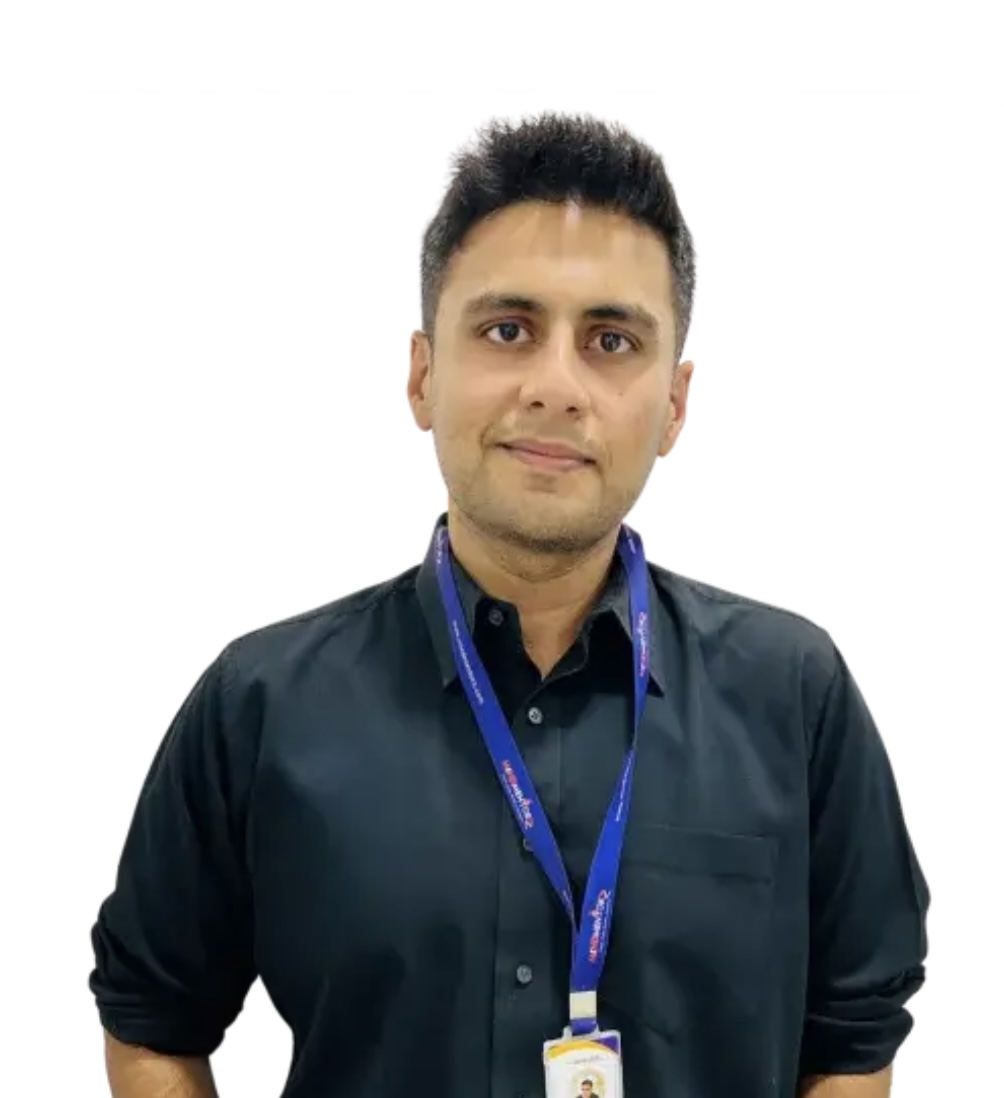
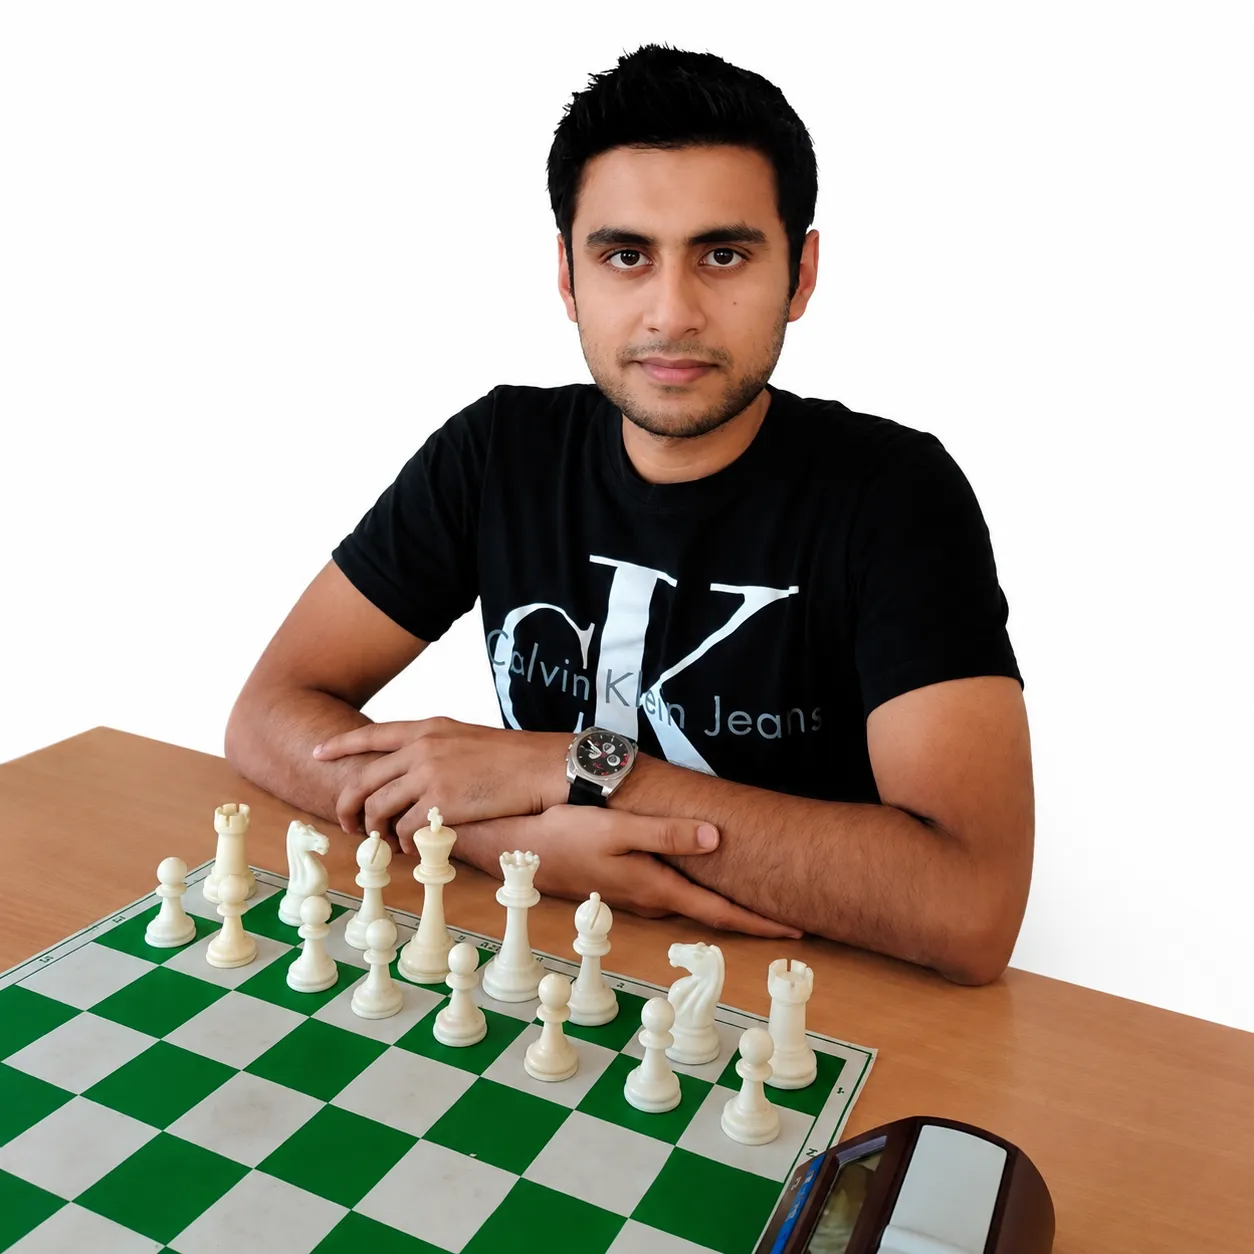
landingpage

diff --git a/src/App.jsx b/src/App.jsx
@@ -61,6 +61,27 @@ function AppContent() {
   )
 }
 
+function LandingPageContent() {
+  return (
+    <div className="app">
+      <main>
+        <Hero />
+        <Stats />
+        <WhyUs />
+        <Coaches />
+        <Gallery />
+        <Results />
+        <Program />
+        <Journey />
+        <Testimonials />
+        <FAQ />
+        <CTA />
+      </main>
+      <Footer />
+    </div>
+  )
+}
+
 function LegalPage({ children }) {
   return (
     <>
@@ -82,6 +103,7 @@ function App() {
       <ScrollToTop />
       <Routes>
         <Route path="/" element={<AppContent />} />
+        <Route path="/landingpage" element={<LandingPageContent />} />
         <Route path="/pricing" element={<LegalPage><Pricing /></LegalPage>} />
         <Route path="/locations" element={<LegalPage><Locations /></LegalPage>} />
         <Route path="/locations/:slug" element={<CenterLayout><CenterPage /></CenterLayout>} />